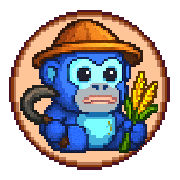
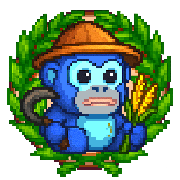
feat: new trophy 4th slot and consumables update

diff --git a/src/components/game/SingleHorse/index.tsx b/src/components/game/SingleHorse/index.tsx
@@ -168,7 +168,7 @@ const SingleHorse: React.FC<Props> = ({ horse, reloadHorses }) => {
   //     – Otherwise display `empty.webp`.
   //
   const levelNum = Number(horse.staty.level);
-  const MAX_SLOTS = 3;
+  const MAX_SLOTS = 4;
 
   function slotState(index: number): 'locked' | 'unlocked' {
     if (levelNum < 2) return 'locked';
@@ -179,6 +179,10 @@ const SingleHorse: React.FC<Props> = ({ horse, reloadHorses }) => {
 
   // horse.items is now Array<Item>
   const equippedItems: Item[] = horse.items;
+
+  // Separate trophy and non-trophy items
+  const trophyItem = equippedItems.find((it) => items[it.name]?.trophy);
+  const regularItems = equippedItems.filter((it) => !items[it.name]?.trophy);
 
   const extraStats = equippedItems.reduce(
     (acc, item) => {
@@ -419,9 +423,30 @@ const SingleHorse: React.FC<Props> = ({ horse, reloadHorses }) => {
 
               {/* ─────────── HORSE ITEMS / SLOT RENDERING ─────────── */}
               <div className={styles.horseItems}>
-                {Array.from({ length: MAX_SLOTS }).map((_, idx) => {
+                {/* 1) Trophy slot always first */}
+                <div className={styles.singleItem}>
+                  {trophyItem ? (
+                    <>
+                      <img
+                        src={`/assets/items/${ITEM_SLUG_MAP[trophyItem.name]}_equiped.webp`}
+                        alt={trophyItem.name}
+                        onClick={() =>
+                          setUnequipIndex(equippedItems.findIndex((it) => it.id === trophyItem.id))
+                        }
+                      />
+                      {trophyItem.uses > 0 && trophyItem.breakable && (
+                        <div className={styles.itemBadge}>{trophyItem.uses}</div>
+                      )}
+                    </>
+                  ) : (
+                    <img src="/assets/items/empty_trophy.webp" alt="Empty Trophy Slot" />
+                  )}
+                </div>
+
+                {/* 2) Regular 3 slots */}
+                {Array.from({ length: 3 }).map((_, idx) => {
                   const state = slotState(idx);
-                  if (state === 'locked') {
+                  if (state === "locked") {
                     return (
                       <div key={idx} className={styles.singleItem}>
                         <img src="/assets/items/locked.webp" alt="Locked" />
@@ -430,7 +455,7 @@ const SingleHorse: React.FC<Props> = ({ horse, reloadHorses }) => {
                   }
 
                   // unlocked slot
-                  const equipped = equippedItems[idx];
+                  const equipped = regularItems[idx];
                   if (!equipped) {
                     return (
                       <div key={idx} className={styles.singleItem}>
@@ -439,24 +464,24 @@ const SingleHorse: React.FC<Props> = ({ horse, reloadHorses }) => {
                     );
                   }
 
-                  // slot unlocked & item present → show equipped image, clickable to unequip
-                  const slugName = ITEM_SLUG_MAP[equipped.name] || '';
-
+                  // slot unlocked & item present → show equipped image
+                  const slugName = ITEM_SLUG_MAP[equipped.name] || "";
                   return (
                     <div key={idx} className={styles.singleItem}>
                       <img
                         src={`/assets/items/${slugName}_equiped.webp`}
                         alt={equipped.name}
-                        onClick={() => setUnequipIndex(idx)}
+                        onClick={() =>
+                          setUnequipIndex(equippedItems.findIndex((it) => it.id === equipped.id))
+                        }
                         onError={(e) => {
                           const target = e.currentTarget as HTMLImageElement;
-                          if (!target.src.endsWith('.gif')) {
+                          if (!target.src.endsWith(".gif")) {
                             target.src = `/assets/items/${slugName}_equiped.gif`;
                           }
                         }}
                       />
-
-                      {(equipped.uses > 0) && equipped.breakable && (
+                      {equipped.uses > 0 && equipped.breakable && (
                         <div className={styles.itemBadge}>{equipped.uses}</div>
                       )}
                     </div>

diff --git a/src/components/game/Modals/ItemBag/index.tsx b/src/components/game/Modals/ItemBag/index.tsx
@@ -84,6 +84,9 @@ const ItemBag: React.FC<Props> = ({
   // Pagination state
   const [currentPage, setCurrentPage] = useState(0);
 
+  const [foodUsed, setFoodUsed] = useState<number>(horse?.profile.food_used ?? 0);
+
+
   const [multiRecycle, setMultiRecycle] = useState<{
     name: string;
     uses: number;
@@ -315,6 +318,7 @@ const ItemBag: React.FC<Props> = ({
           body: JSON.stringify({ itemName: itemName }),
         }
       );
+
       if (!res.ok) {
         let msg = `HTTP ${res.status}`;
         try {
@@ -323,7 +327,13 @@ const ItemBag: React.FC<Props> = ({
         } catch { }
         throw new Error(msg);
       }
+
+      const data = await res.json();
       setInfoMessage(`Used one ${itemName}.`);
+      if (data.foodUsed !== undefined) {
+        setFoodUsed(data.foodUsed);
+      }
+
       if (reloadHorses) await reloadHorses();
       fetchItems();
     } catch (err: any) {
@@ -333,6 +343,7 @@ const ItemBag: React.FC<Props> = ({
       setActiveDropdownIndex(null);
     }
   };
+
 
   // “Equip” handler (calls backend /horses/:id/equip-item)
   const handleEquip = async (itemName: string, usesLeft: number) => {
@@ -852,6 +863,11 @@ const ItemBag: React.FC<Props> = ({
                   <span className={styles.usesLeft}>
                     ({tooltip.usesLeft} uses left)
                   </span>) : (null)}
+                {itemsConst[tooltip.name]?.property?.currentEnergy !== undefined && foodUsed !== null && horse && (
+                  <div className={styles.foodUsed}>
+                    You can still use <strong>{3 - foodUsed}</strong> food item(s) for this horse!
+                  </div>
+                )}
               </div>
             </Tooltip>
           )}

diff --git a/src/components/game/SingleHorse/styles.module.scss b/src/components/game/SingleHorse/styles.module.scss
@@ -67,11 +67,11 @@
 
         .horseInfo {
             .horseWrapper {
-                padding: 5.25vw 3.93vw 1.7vw 3.93vw;
+                padding: 5.25vw 3.93vw 1.7vw 2.53vw;
                 font-family: 'SpaceHorse';
 
                 @media screen and (max-width: 1280px) {
-                    padding: 5.25vw 3.93vw 1.4vw 3.93vw;
+                    padding: 5.25vw 3.93vw 1.4vw 2.53vw;
                 }
 
                 @media screen and (max-width: 920px) {
@@ -81,14 +81,13 @@
 
                 @media screen and (max-width: 680px) {
                     width: 100%;
-                    padding: 11.7vw 8.5vw 0vw 8.5vw;
+                    padding: 11.7vw 8.5vw 0vw 5.5vw;
                 }
 
                 .horseItems {
                     display: flex;
                     margin-top: 1.8vw;
                     margin-bottom: -0.6vw;
-                    padding: 0 1.3vw;
 
                     @media screen and (max-width: 920px) {
                         margin-top: 3.8vw;
@@ -122,7 +121,7 @@
                         @media screen and (max-width: 480px) {
                             width: 8vw;
                             height: 8vw;
-                            margin-left: 3vw;
+                            margin-left: 2vw;
                         }
 
                         // Dark “slot” background:

diff --git a/src/utils/constants/items.ts b/src/utils/constants/items.ts
@@ -100,7 +100,8 @@ export const items = {
         "src": "ronke",
         "description": "Reduce race cost by 3 energy. A plush trophy to celebrate your victory!",
         "breakable": false,
-        "consumable": true,
+        "consumable": false,
+        "trophy": true,
         "uses": 1,
         "chainId": 10000,
         "chainSrc": 'https://ipfs.io/ipfs/bafybeibv5xrrvpblewknapabtevnm33poi2i32b3ypuz4qh7xz2dr4kpd4'
@@ -111,6 +112,7 @@ export const items = {
         "description": "Reduce race cost by 1 energy. A plush trophy to celebrate your engagement!",
         "breakable": false,
         "consumable": false,
+        "trophy": true,
         "uses": 1,
         "chainId": 10001,
         "chainSrc": 'https://ipfs.io/ipfs/bafybeigv34beezol4uz24n3meosxm4lvsawlbpwjx5r3qyxtehkfy3n4xe'
@@ -121,6 +123,7 @@ export const items = {
         "description": "Increase drop rate of items ingame by 15%",
         "breakable": false,
         "consumable": false,
+        "trophy": true,
         "uses": 1,
         "chainId": 10002,
         "chainSrc": 'https://ipfs.io/ipfs/bafybeih5qlajvf4wqbmxvhcfewnkgizd4wrjdbi7y7chmcv4xusgwz6zvy'

diff --git a/src/components/game/Horses/index.tsx b/src/components/game/Horses/index.tsx
@@ -37,6 +37,7 @@ interface BackendHorse {
   createdAt: string;
   updatedAt: string;
   nickname: string | null;
+  foodUsed: number;
   equipments: Array<{
     id: string;
     ownerId: string;
@@ -61,6 +62,7 @@ export interface Horse {
     type_horse_slug: string;
     type_jockey: string;
     time: string;
+    food_used: number;
   };
   staty: {
     status: string;
@@ -136,6 +138,7 @@ const Horses: React.FC<Props> = ({ changeView }) => {
           type_horse_slug: h.rarity.toLowerCase(),
           type_jockey: 'NONE',
           time: '120 Days',
+          food_used: h.foodUsed
         },
         staty: {
           status: h.status,

diff --git a/src/components/game/Modals/ItemBag/styles.module.scss b/src/components/game/Modals/ItemBag/styles.module.scss
@@ -191,7 +191,7 @@
                         z-index: 0;
                     }
 
-                    
+
                     /* tooltips */
                     .tooltip {
                         display: none;
@@ -381,10 +381,17 @@
             font-size: 1.8vw;
         }
     }
+
+    .foodUsed {
+        font-size: 11px;
+        color: #3b1cee;
+        margin-top: 2px;
+    }
+
 }
 
 .onChainItem {
-  outline: 2px solid red;
-  border-radius: 4px;
-  /* or any “red aura” effect you prefer */
+    outline: 2px solid red;
+    border-radius: 4px;
+    /* or any “red aura” effect you prefer */
 }

diff --git a/src/domain/models/Horse.ts b/src/domain/models/Horse.ts
@@ -22,6 +22,7 @@ export interface Horse {
     type_horse_slug: string;
     type_jockey: string;
     time: string;
+    food_used: number;
   };
   staty: {
     status: string;
